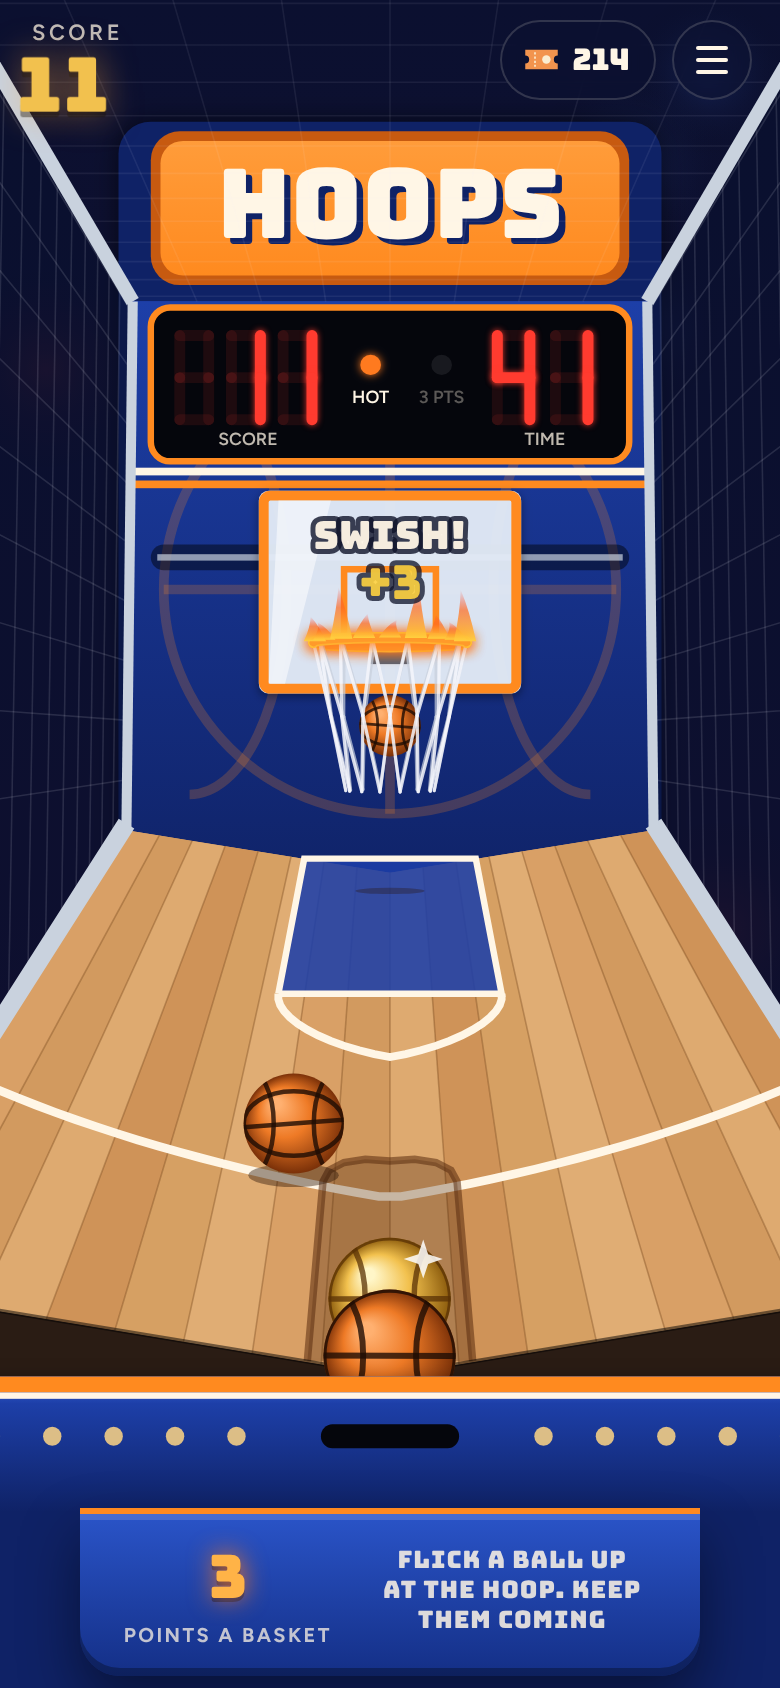
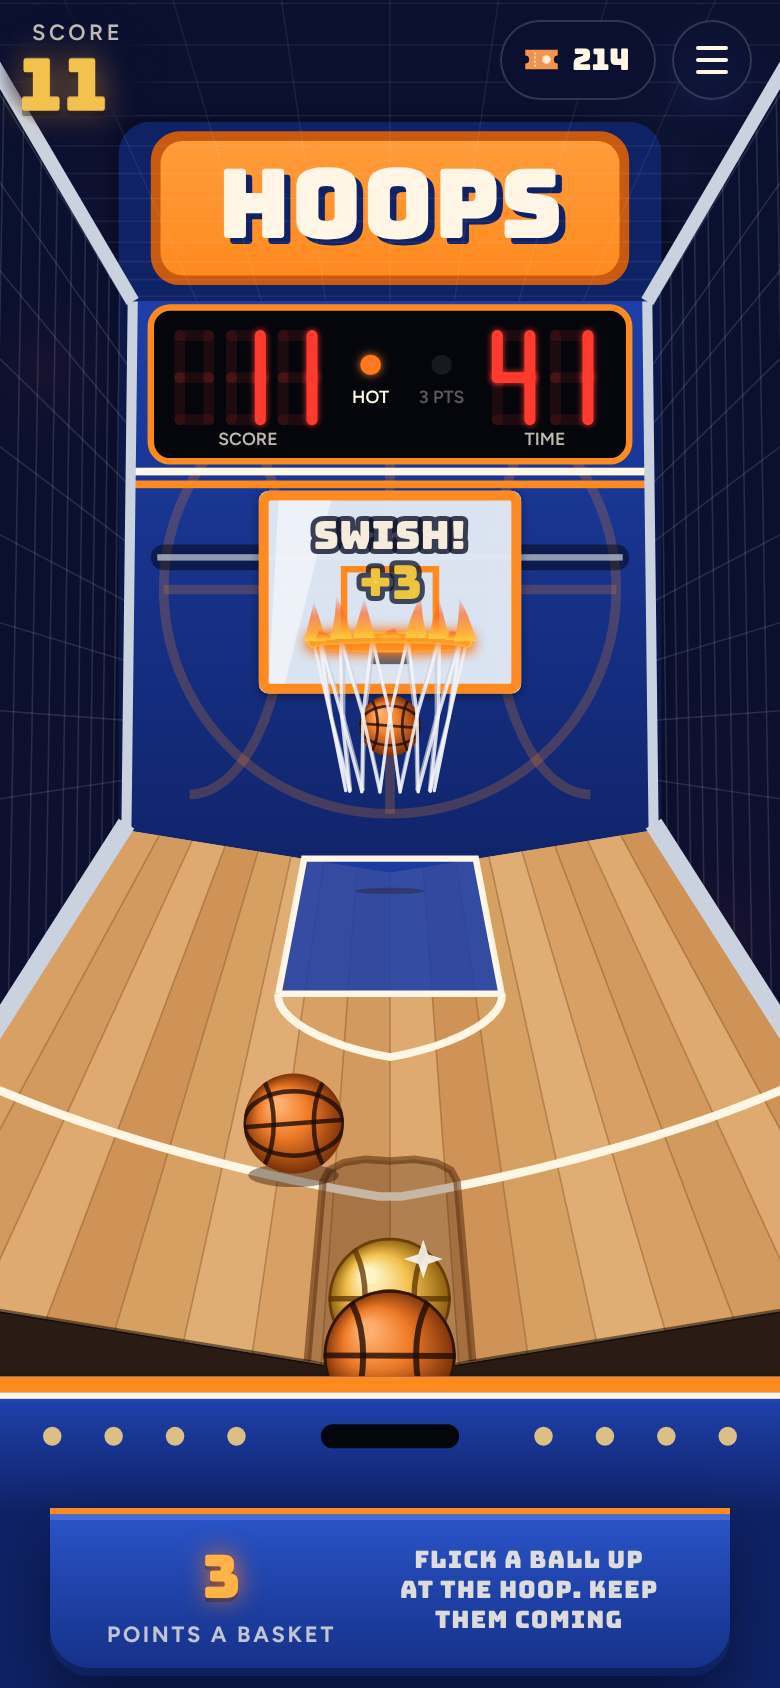
Deck words 11 px at least, Hoops' deck on its front, and its score clear of the cage
On a shorter phone each machine's deck shrank its hint to 10 px, and
Hoops' 'points a basket' was 10 px everywhere and 9 px when narrow, under
the 11 pt smallest size Apple's Human Interface Guidelines give for iOS
text (Typography, 'Ensuring legibility'). Hoops' deck was sized from the
backboard's cabinet, so it went narrow on every iPhone: 274 px as an
installed app on an iPhone 14, 222 on an SE. It's now sized from the
blue front it stands on, as wide as the window allows up to 340 px and
centred under the cabinet, so only a phone under 322 px wide narrows it.
A narrow deck's hint is now 11 px and the label always is; where a hint
can't fit whole at 11 px it goes, as the title card says it too
(Highrise under 270 px, where 'anywhere' was cut off at the side even at
10 px, Popgun under 265 px, Hoops under 245). The floor's deck check now
fails on anything in a deck under 11 px, or a hint cut off at the side.
Hoops' corner score gets a soft dark pool behind it, so the cage's near
post no longer runs through the numbers. And every page now asks Safari
not to enlarge its text when the phone turns, as normalize.css does
(untested on an iPhone here; it changes nothing in Chromium).

Claude-Session: https://claude.ai/code/session_01RkvUFhzoaPZyofz3pSrJ5i

diff --git a/hoops/css/hoops.css b/hoops/css/hoops.css
@@ -41,7 +41,13 @@ svg { width: 1.3em; height: .9em; flex: none; }
   padding: calc(10px + env(safe-area-inset-top, 0px)) max(14px, env(safe-area-inset-right, 0px)) 0 max(14px, env(safe-area-inset-left, 0px));
   display: flex; justify-content: space-between; align-items: flex-start;
 }
-.hud .score { line-height: 1; }
+.hud .score { line-height: 1; position: relative; }
+/* The cage's near post runs up behind the corner: a soft dark pool behind the score keeps its white line out of the
+   numbers, and fades out before the edge so the cage still reads behind it. */
+.hud .score::before {
+  content: ""; position: absolute; z-index: -1; inset: -12px -22px -12px -16px; border-radius: 50%;
+  background: radial-gradient(closest-side, rgba(11, 16, 48, .92) 55%, rgba(11, 16, 48, .6) 75%, rgba(11, 16, 48, 0));
+}
 .hud .score small { display: block; font: 600 11px var(--body); letter-spacing: .16em; text-transform: uppercase; color: var(--ink2); margin: 0 0 4px 2px; }
 .hud .score b {
   display: inline-block; min-width: 2ch; font: 400 30px/1 var(--disp); color: var(--gold); letter-spacing: .02em;
@@ -71,16 +77,17 @@ svg { width: 1.3em; height: .9em; flex: none; }
 .deck.side { flex-direction: column; justify-content: center; height: auto; padding: 22px 16px; border-radius: 20px; gap: 14px; }
 .say { flex: 1; max-width: 12em; font: 400 12px/1.25 var(--disp); letter-spacing: .04em; text-transform: uppercase; color: var(--ink); text-align: center; opacity: .85; text-wrap: balance; }
 .deck.side .say { flex: none; }
-/* On a short phone the cabinet is narrower, and the deck under it (js/app.js marks it): under 290 px the hint is
-   smaller, and no more lines than the deck has room for, and under 220 px it goes, as the title card says it too. */
-.deck.narrow .say { font-size: 10px; display: -webkit-box; -webkit-box-orient: vertical; -webkit-line-clamp: 4; overflow: hidden; }
+/* On a narrow phone the deck under the cabinet is narrower (js/app.js marks it): under 290 px the hint goes
+   down to 11 px, the smallest size Apple's guidelines give for iOS, in no more lines than the deck has room for, and
+   under 245 px, where it can't fit whole at that size, it goes, as the title card says it too. */
+.deck.narrow .say { font-size: 11px; display: -webkit-box; -webkit-box-orient: vertical; -webkit-line-clamp: 4; overflow: hidden; }
 .deck.narrower .say { display: none; }
 .deck.narrow .worth { min-width: 5em; }
-.deck.narrow .worth span { font-size: 9px; white-space: nowrap; }
+.deck.narrow .worth span { white-space: nowrap; }
 /* what a basket's worth now, on the deck: gold in the last ten seconds, alight when the rim is */
 .worth { display: flex; flex-direction: column; align-items: center; min-width: 6.5em; line-height: 1; }
 .worth b { font: 400 30px var(--disp); color: var(--ink); text-shadow: 0 2px 0 rgba(0, 0, 0, .35); font-variant-numeric: tabular-nums; }
-.worth span { margin-top: 3px; font: 700 10px var(--body); letter-spacing: .12em; text-transform: uppercase; color: var(--ink2); }
+.worth span { margin-top: 3px; font: 700 11px var(--body); letter-spacing: .12em; text-transform: uppercase; color: var(--ink2); }
 .worth.bonus b { color: #ffd23f; }
 .worth.hot b { color: #ffb347; text-shadow: 0 0 12px rgba(255, 122, 31, .9), 0 2px 0 rgba(0, 0, 0, .35); animation: throb .35s ease-in-out infinite alternate; }
 .worth b.bump { animation: bump .5s ease-out; }

diff --git a/topple/css/topple.css b/topple/css/topple.css
@@ -70,9 +70,10 @@ svg { width: 1.3em; height: .9em; flex: none; }
 .deck.side { flex-direction: column; justify-content: center; height: auto; padding: 22px 16px; border-radius: 22px; gap: 14px; }
 .say { flex: 1; max-width: 8em; font: 400 12px/1.25 var(--disp); letter-spacing: .04em; text-transform: uppercase; color: var(--ink); text-align: center; opacity: .85; }
 .deck.side .say { flex: none; }
-/* On a short phone the cabinet is narrower, and the deck under it (js/app.js marks it): under 290 px the hint is
-   smaller, and no more lines than the deck has room for, and under 220 px it goes, as the title card says it too. */
-.deck.narrow .say { font-size: 10px; display: -webkit-box; -webkit-box-orient: vertical; -webkit-line-clamp: 5; overflow: hidden; }
+/* On a short phone the cabinet is narrower, and the deck under it (js/app.js marks it): under 290 px the hint goes
+   down to 11 px, the smallest size Apple's guidelines give for iOS, in no more lines than the deck has room for, and
+   under 220 px, where it can't fit whole at that size, it goes, as the title card says it too. */
+.deck.narrow .say { font-size: 11px; display: -webkit-box; -webkit-box-orient: vertical; -webkit-line-clamp: 5; overflow: hidden; }
 .deck.narrower .say { display: none; }
 /* the cup of coins: a paper cup with coins showing over the rim */
 .cup { flex: 1; max-width: 8em; display: flex; flex-direction: column; align-items: center; gap: 4px; font: 600 13px var(--body); color: var(--ink2); }

diff --git a/popgun/css/popgun.css b/popgun/css/popgun.css
@@ -70,9 +70,10 @@ svg { width: 1.3em; height: .9em; flex: none; }
 .deck.side { flex-direction: column; justify-content: center; height: auto; padding: 22px 16px; border-radius: 20px; gap: 14px; }
 .say { flex: 1; max-width: 12em; font: 400 12px/1.25 var(--disp); letter-spacing: .04em; text-transform: uppercase; color: var(--ink); text-align: center; opacity: .85; text-wrap: balance; }
 .deck.side .say { flex: none; }
-/* On a short phone the cabinet is narrower, and the deck under it (js/app.js marks it): under 290 px the hint is
-   smaller, and no more lines than the deck has room for, and under 220 px it goes, as the title card says it too. */
-.deck.narrow .say { font-size: 10px; display: -webkit-box; -webkit-box-orient: vertical; -webkit-line-clamp: 4; overflow: hidden; }
+/* On a short phone the cabinet is narrower, and the deck under it (js/app.js marks it): under 290 px the hint goes
+   down to 11 px, the smallest size Apple's guidelines give for iOS, in no more lines than the deck has room for, and
+   under 265 px, where it can't fit whole at that size, it goes, as the title card says it too. */
+.deck.narrow .say { font-size: 11px; display: -webkit-box; -webkit-box-orient: vertical; -webkit-line-clamp: 4; overflow: hidden; }
 .deck.narrower .say { display: none; }
 /* the corks left, laid out on the counter */
 .corks { display: flex; flex-direction: column; align-items: center; gap: 4px; font: 600 13px var(--body); color: var(--ink2); }

diff --git a/bonkers/css/bonkers.css b/bonkers/css/bonkers.css
@@ -70,9 +70,10 @@ svg { width: 1.3em; height: .9em; flex: none; }
 .deck.side { flex-direction: column; justify-content: center; height: auto; padding: 22px 16px; border-radius: 20px; gap: 14px; }
 .say { flex: 1; max-width: 12em; font: 400 12px/1.25 var(--disp); letter-spacing: .04em; text-transform: uppercase; color: var(--ink); text-align: center; opacity: .85; text-wrap: balance; }
 .deck.side .say { flex: none; }
-/* On a short phone the cabinet is narrower, and the deck under it (js/app.js marks it): under 290 px the hint is
-   smaller, and no more lines than the deck has room for, and under 220 px it goes, as the title card says it too. */
-.deck.narrow .say { font-size: 10px; display: -webkit-box; -webkit-box-orient: vertical; -webkit-line-clamp: 4; overflow: hidden; }
+/* On a short phone the cabinet is narrower, and the deck under it (js/app.js marks it): under 290 px the hint goes
+   down to 11 px, the smallest size Apple's guidelines give for iOS, in no more lines than the deck has room for, and
+   under 220 px, where it can't fit whole at that size, it goes, as the title card says it too. */
+.deck.narrow .say { font-size: 11px; display: -webkit-box; -webkit-box-orient: vertical; -webkit-line-clamp: 4; overflow: hidden; }
 .deck.narrower .say { display: none; }
 /* the round's clock, on the deck: red when it's a frenzy */
 .clock { display: flex; flex-direction: column; align-items: center; min-width: 5em; line-height: 1; }

diff --git a/highrise/css/highrise.css b/highrise/css/highrise.css
@@ -70,9 +70,10 @@ svg { width: 1.3em; height: .9em; flex: none; }
 .deck.side { flex-direction: column; justify-content: center; height: auto; padding: 22px 16px; border-radius: 22px; gap: 14px; }
 .say { flex: 1; max-width: 8em; font: 400 12px/1.25 var(--disp); letter-spacing: .04em; text-transform: uppercase; color: var(--ink); text-align: center; opacity: .85; text-wrap: balance; }
 .deck.side .say { flex: none; }
-/* On a short phone the cabinet is narrower, and the deck under it (js/app.js marks it): under 290 px the hint is
-   smaller, and no more lines than the deck has room for, and under 220 px it goes, as the title card says it too. */
-.deck.narrow .say { font-size: 10px; display: -webkit-box; -webkit-box-orient: vertical; -webkit-line-clamp: 5; overflow: hidden; }
+/* On a short phone the cabinet is narrower, and the deck under it (js/app.js marks it): under 290 px the hint goes
+   down to 11 px, the smallest size Apple's guidelines give for iOS, in no more lines than the deck has room for, and
+   under 270 px, where it can't fit whole at that size, it goes, as the title card says it too. */
+.deck.narrow .say { font-size: 11px; display: -webkit-box; -webkit-box-orient: vertical; -webkit-line-clamp: 5; overflow: hidden; }
 .deck.narrower .say { display: none; }
 .stop {
   flex: none; width: 92px; height: 92px; border-radius: 50%; padding: 0; position: relative;

diff --git a/clutch/css/clutch.css b/clutch/css/clutch.css
@@ -74,9 +74,10 @@ svg { width: 1.3em; height: .9em; flex: none; }
 /* a press too short to be a go: "Hold to move the claw" lights up for a moment (js/app.js) */
 .say.nudge { animation: nudge 1.6s ease-out; }
 @keyframes nudge { 0%, 55% { color: #ffe28a; opacity: 1; transform: scale(1.12); } }
-/* On a short phone the cabinet is narrower, and the deck under it (js/app.js marks it): under 290 px the hint is
-   smaller, and no more lines than the deck has room for, and under 220 px it goes, as the title card says it too. */
-.deck.narrow .say { font-size: 10px; display: -webkit-box; -webkit-box-orient: vertical; -webkit-line-clamp: 5; overflow: hidden; }
+/* On a short phone the cabinet is narrower, and the deck under it (js/app.js marks it): under 290 px the hint goes
+   down to 11 px, the smallest size Apple's guidelines give for iOS, in no more lines than the deck has room for, and
+   under 220 px, where it can't fit whole at that size, it goes, as the title card says it too. */
+.deck.narrow .say { font-size: 11px; display: -webkit-box; -webkit-box-orient: vertical; -webkit-line-clamp: 5; overflow: hidden; }
 .deck.narrower .say { display: none; }
 .hold {
   flex: none; width: 88px; height: 88px; border-radius: 50%; padding: 0; position: relative;

diff --git a/hoops/js/app.js b/hoops/js/app.js
@@ -52,10 +52,13 @@ function layout() {
   if (side) {
     Object.assign(deck.style, { left: `${cab.left + cab.width + 18}px`, top: `${(cab.top + cab.bottom) / 2 - deck.offsetHeight / 2}px` });
   } else {
-    Object.assign(deck.style, { left: `${cab.left + cab.width * 0.02}px`, width: `${cab.width * 0.96}px`, top: `${cab.bottom - 2}px` });
-    // On a short phone the cabinet is narrower, and the deck with it: its hint gets smaller, then goes (see the CSS).
+    // The deck stands on the machine's blue front, which is wider than the backboard's cabinet and spans a phone's
+    // screen: as wide as the window allows, to 340 px, and centred under the cabinet (and never wider than the front).
+    const width = Math.min(innerWidth - 32, 340, cab.width * 2);
+    Object.assign(deck.style, { left: `${cab.left + cab.width / 2 - width / 2}px`, width: `${width}px`, top: `${cab.bottom - 2}px` });
+    // On a narrow phone the deck is narrower: its hint goes to 11 px, then goes (see the CSS).
     deck.classList.toggle('narrow', deck.offsetWidth < 290);
-    deck.classList.toggle('narrower', deck.offsetWidth < 220);
+    deck.classList.toggle('narrower', deck.offsetWidth < 245);
   }
 }
 addEventListener('resize', layout);

diff --git a/shared/arcade.css b/shared/arcade.css
@@ -16,6 +16,10 @@
   --fp-body: "Figtree", system-ui, sans-serif;
 }
 
+/* Safari on an iPhone can enlarge a page's text when the phone turns on its side; this keeps every page's words the
+   size they were made at, as normalize.css (v8.0.1) does. */
+html { -webkit-text-size-adjust: 100%; text-size-adjust: 100%; }
+
 .fp-tix { width: 1.3em; height: .9em; flex: none; vertical-align: -.08em; }
 /* A machine's keyboard line on its title card and in its menu: shown on a computer (a pointer that can hover), not on
    a phone. Its menu's touch line is the other way round. */

diff --git a/highrise/js/app.js b/highrise/js/app.js
@@ -56,7 +56,7 @@ function layout() {
     Object.assign(deck.style, { left: `${cab.left + cab.width * 0.04}px`, width: `${cab.width * 0.92}px`, top: `${cab.bottom - 2}px` });
     // On a short phone the cabinet is narrower, and the deck with it: its hint gets smaller, then goes (see the CSS).
     deck.classList.toggle('narrow', deck.offsetWidth < 290);
-    deck.classList.toggle('narrower', deck.offsetWidth < 220);
+    deck.classList.toggle('narrower', deck.offsetWidth < 270);
   }
 }
 addEventListener('resize', layout);

diff --git a/popgun/js/app.js b/popgun/js/app.js
@@ -53,7 +53,7 @@ function layout() {
     Object.assign(deck.style, { left: `${cab.left + cab.width * 0.05}px`, width: `${cab.width * 0.9}px`, top: `${cab.bottom - 2}px` });
     // On a short phone the cabinet is narrower, and the deck with it: its hint gets smaller, then goes (see the CSS).
     deck.classList.toggle('narrow', deck.offsetWidth < 290);
-    deck.classList.toggle('narrower', deck.offsetWidth < 220);
+    deck.classList.toggle('narrower', deck.offsetWidth < 265);
   }
 }
 addEventListener('resize', layout);
